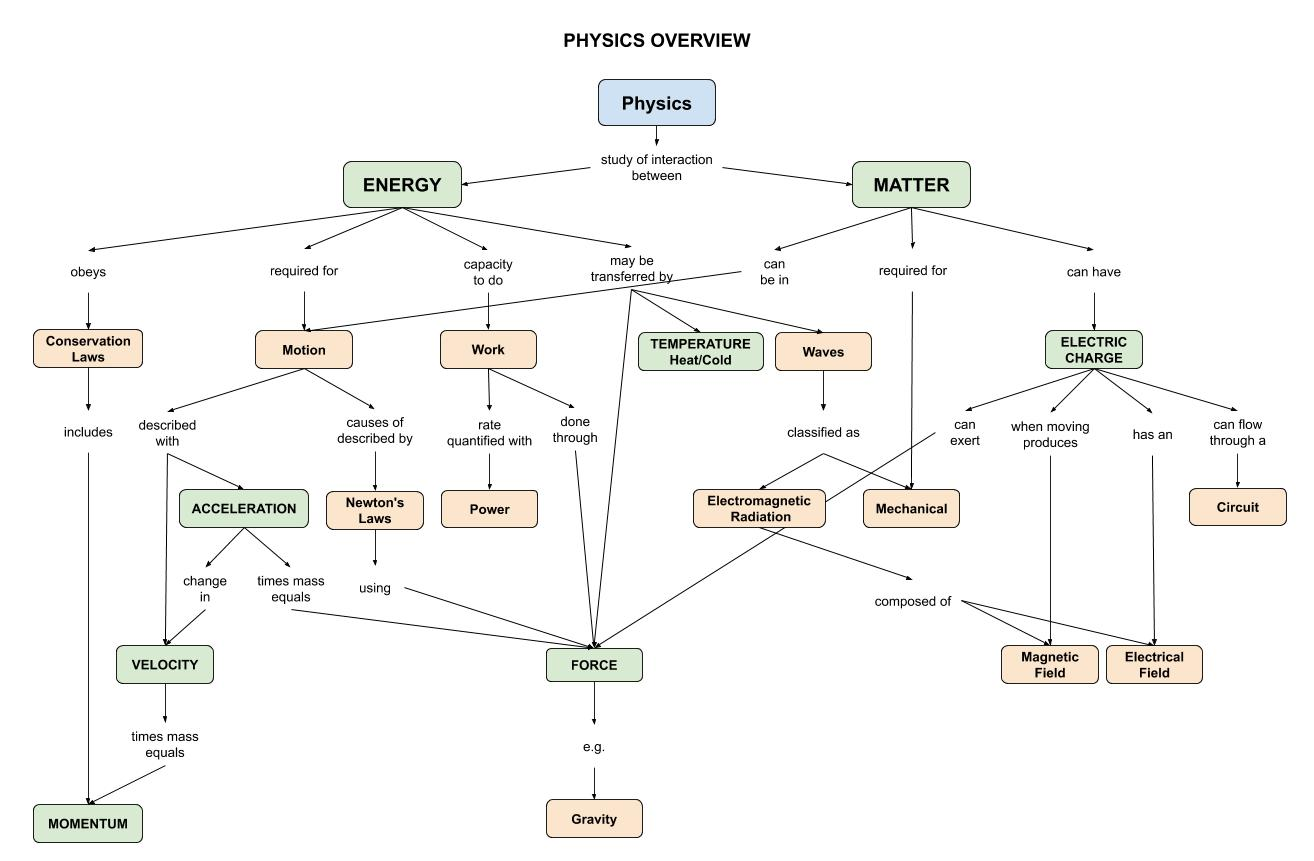
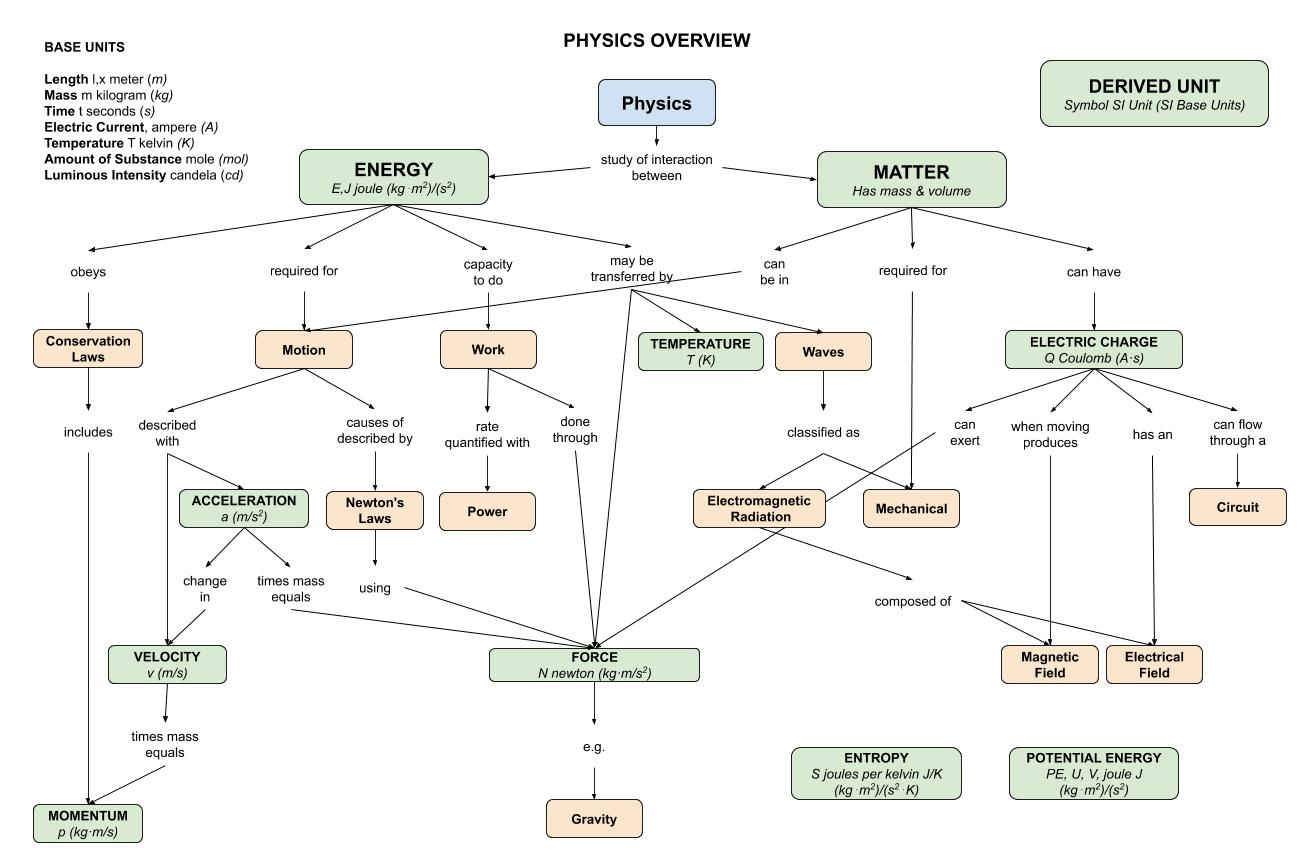
physics

diff --git a/other/science/physical-science/physics-cheat-sheet/README.tex.md b/other/science/physical-science/physics-cheat-sheet/README.tex.md
@@ -31,8 +31,8 @@ View my entire list of cheat sheets on
 
 ## OVERVIEW
 
-Why are things the way they are, we try to understand.
-IT is the study of the properties of matter and their relationship with energy
+Why are things the way they are?  Physics tries to understand.
+It is the study of the properties of matter and their relationship with energy
 and forces.
 
 Physics can be subdivided into the following,
@@ -73,99 +73,99 @@ Physics can be subdivided into the following,
 
 ### IMPORTANT DISCOVERIES IN PHYSICS
 
-* Nicholas Copernicus - Discovered that the Earth rotates around the Sun.
-* Galileo - Demonstrated that heavy objects do not fall faster than lighter
+* [Nicholas Copernicus](https://github.com/JeffDeCola/my-cheat-sheets/tree/master/other/science/earth-and-space-science/astronomy-cheat-sheet#nicolaus-copernicus-1473-1543-polish)
+  (1473-1543)
+  Discovered that the Earth rotates around the Sun.
+* [Galileo Galilei](Galileohttps://github.com/JeffDeCola/my-cheat-sheets/tree/master/other/science/earth-and-space-science/astronomy-cheat-sheet#galileo-galilei-1564-1642--italy)
+  (1564-1642)
+  Demonstrated that heavy objects do not fall faster than lighter
   ones in his famous Leaning Tower of Pisa experiment.
-* Isaac Newton - Published the three laws of motion and explained how gravity works.
-* John Dalton - Described the atom and the atomic theory of matter.
-* Albert Einstein - Published the theory of relativity.
-* Max Planck - Described quantum theory.
+* [Sir Isaac Newton](https://github.com/JeffDeCola/my-cheat-sheets/tree/master/other/science/earth-and-space-science/astronomy-cheat-sheet#sir-issac-newton-1642-1727-english)
+  (1642-1727)
+  Published the three laws of motion and explained how gravity works.
+* `John Dalton`
+  (1766-1844)
+  Described the atom and the atomic theory of matter.
+* `Albert Einstein`
+  (1879-1955)
+  Published the theory of relativity.
+* `Max Planck`
+  (1858-1947)
+  Described quantum theory.
 
-## UNITS AND PHYSICAL QUANTITIES
+## PHYSICAL QUANTITIES & UNITS
 
- A physical quantity either defined by,
+The measurement of a `physical quantity` is expressed in `units`.
 
-* Specifying how it is measured (e.g. like distance and time)
-* Stating how it is calculated from other measurements (e.g. speed is distance
-  over time).
+ A physical quantity is either defined by,
 
-Measurements of physical quantities are expressed in terms of units (e.g. meters
-or seconds).
+* Specifying how it is measured (e.g. distance and time) or
+* Stating how it is calculated from other measurements (e.g. speed which
+  is distance over time)
 
-### FUNDAMENTAL AND DERIVED UNITS
+### FUNDAMENTAL UNITS
 
-Fundamental units are,
+Fundamental units of a physical quantity,
 
-* LENGTH
-  * meter (m)
-* MASS
-  * kilogram (kg)
-* TIME
-  * seconds (s)
-* ELECTRIC CURRENT
-  * ampere (A)
-* TEMPERATURE
-  * kelvin (K)
-* AMOUNT OF SUBSTANCE
-  * mole (mol)
-* LUMINOUS INTENSITY
-  * candela (cd)  
+* `LENGTH`
+  * $l$, $x$ meter ($m$)
+* `MASS`
+  * $m$ kilogram ($kg$)
+  * mass is not the same as weight
+  * Both a property of a physical body and
+  * A measure of its resistance to acceleration (a change in its state of motion)
+  when a net force is applied
+* `TIME`
+  * $t$ seconds ($s$)
+* `ELECTRIC CURRENT`
+  * ampere ($A$)
+* `TEMPERATURE`
+  * $T$ kelvin ($K$)
+* `AMOUNT OF SUBSTANCE`
+  * mole ($mol$)
+* `LUMINOUS INTENSITY`
+  * candela ($cd$)
 
-There is a massive list of derived units, here are popular ones.
+### NOTABLE DERIVED UNITS
 
-* hertz (Hz)
-* radian (rad)
-* watt (W)
-* ElecVolt (V)
-* Work - joule (J)
-* Area - Square meter ($m2$)
-* Volume - cubic meter - ($m3$)
-* Force (N)
+Some derived units of a physical quantity,
 
-### PHYSICAL QUANTITIES
-
-Basic quantities are,
-
+* `ENERGY`
+  * $E$, $J$ joule ($kg\cdot m^2/ s^{2}$)
+  * Must be transferred to an object in order to perform work on, or to heat,
+    the object
+  * Concerns the velocity of matter
+  * Capacity to do `work`
+* `MATTER`
+  * Have mass and volume (take up space)
 * `Motion`
   * `VELOCITY`
-    * The rate of change of its position with respect to a frame of reference,
+    * $v\ (m/s)$
+    * The rate of change of its position with respect to a frame of   reference,
       and is a function of time
-  * `ACCELERATION`
-    * Rate of change of velocity of an object with respect to time.
+    * `ACCELERATION`
+      * $a\ (m/s^2)$
+      * Rate of change of velocity of an object with respect to time
+    * `MOMENTUM`
+      * $p\ (kg \cdot m/s)$
+      * Product of the mass and `velocity` of an `object`
 * `ELECTRIC CHARGE`
+  * $Q$ coulomb ($A \cdot s$)
   * Is the physical property of matter that can experience a force
     when placed in an electromagnetic field.
   * Has an `electric field`
   * When moving produces a `magnetic field`
   * Can flow though a `circuit`.
-* `ENERGY`
-  * Must be transferred to an object in order to perform work on, or to heat,
-    the object
-  * Concerns the velocity of matter
-  * Capacity to do `work`
-* `ENTROPY`
 * `FORCE`
+  * $N$ newton ($kg \cdot m/s^2$)
   * Is any interaction that, when unopposed, will change the motion of an object
   * Such as `gravity`
-* `LENGTH`
-  * Measure of distance
-* `MASS`
-  * Both a property of a physical body and
-  * A measure of its resistance to acceleration (a change in its state of motion)
-    when a net force is applied
-* `MATTER`
-  * `Objects` that have mass a volume (take up space)
-* `MOMENTUM`
-  * Product of the mass and `velocity` of an `object`
+* `ENTROPY`
+  * $S$, joules per kelvin $J/K$ ($kg\cdot m^2\cdot s^{-2}\cdot K^{-1}$)
 * `POTENTIAL ENERGY`
+  * $PE$, $U$, $V$, joule ($kg\cdot m^2/ s^{2}$)
   * Is the `energy` held by an `object` because of its position relative
     to other `objects`
-* `SPACE`
-  * Is the boundless three-dimensional extent in which `objects`
-    and events have relative position and direction.
-* `TEMPERATURE`
-  * Is a physical quantity expressing `hot` and `cold`
-* `TIME`
 
 This illustration may help,
 

diff --git a/other/single-board-computers/raspberry-pi/specifications-cheat-sheet/README.md b/other/single-board-computers/raspberry-pi/specifications-cheat-sheet/README.md
@@ -77,7 +77,7 @@ Model 3 and 4,
 | POWER SOURCE     |           microUSB |           microUSB |              USB-C | 
 | - idle           |       300mA (1.5W) |       459mA (2.3W) |           ?mA (?W) | 
 | - max            |       1.34A (6.7W) |      1.13A (5.66W) |            ?A (?W) |
-| PoE              |                  - |  need add-on board | need add-on board  |
+| PoE              |                  - |  need add-on board |  need add-on board |
 
 BCM chips are from Broadcom. Refer to my cheat sheet on
 [ARM architectures](https://github.com/JeffDeCola/my-cheat-sheets/tree/master/hardware/development/hardware-architectures/arm-cheat-sheet).

diff --git a/hardware/development/hardware-architectures/arm-cheat-sheet/README.md b/hardware/development/hardware-architectures/arm-cheat-sheet/README.md
@@ -31,6 +31,7 @@ This highlights the main cores and the architecture used.
 | ARMv7-A          |             ARM Cortex-A7 |       Broadcom BCM2836 |
 |                  |             ARM Cortex-A9 |        Freescale i.MX6 |
 | ARMv8-A          |            ARM Cortex-A53 |       Broadcom BCM2837 |
+| ARMv8-A          |            ARM Cortex-A72 |       Broadcom BCM2711 |
 | ARMv8.2-A        |            ARM Cortex-A55 |                        |
 
 SolidRun's
